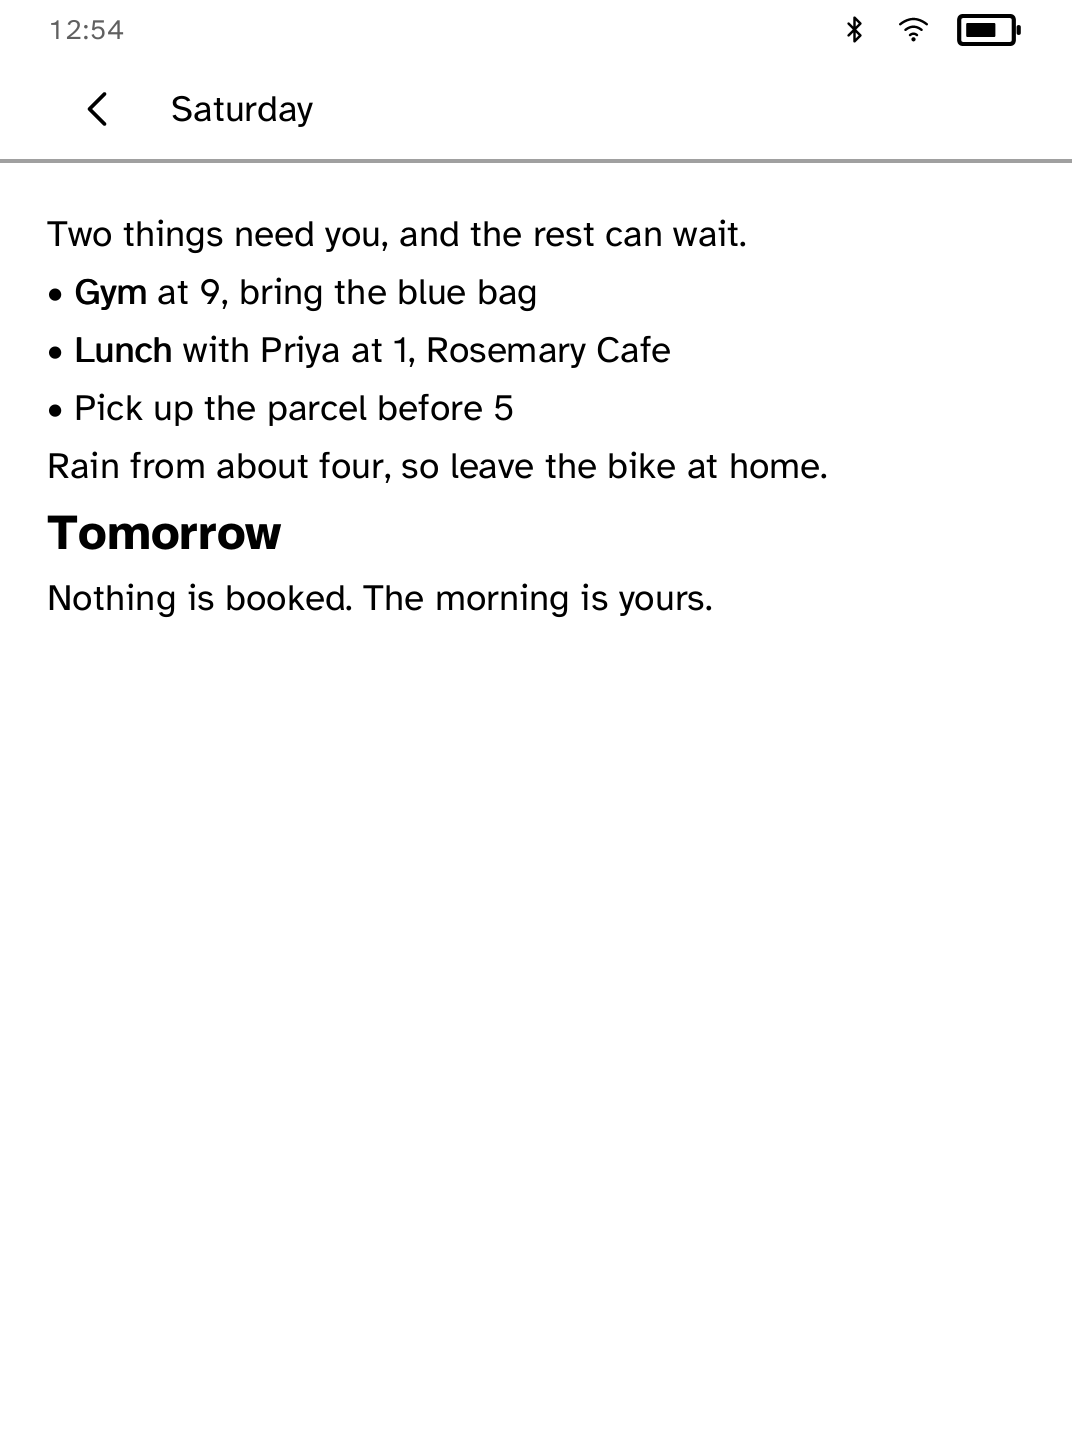
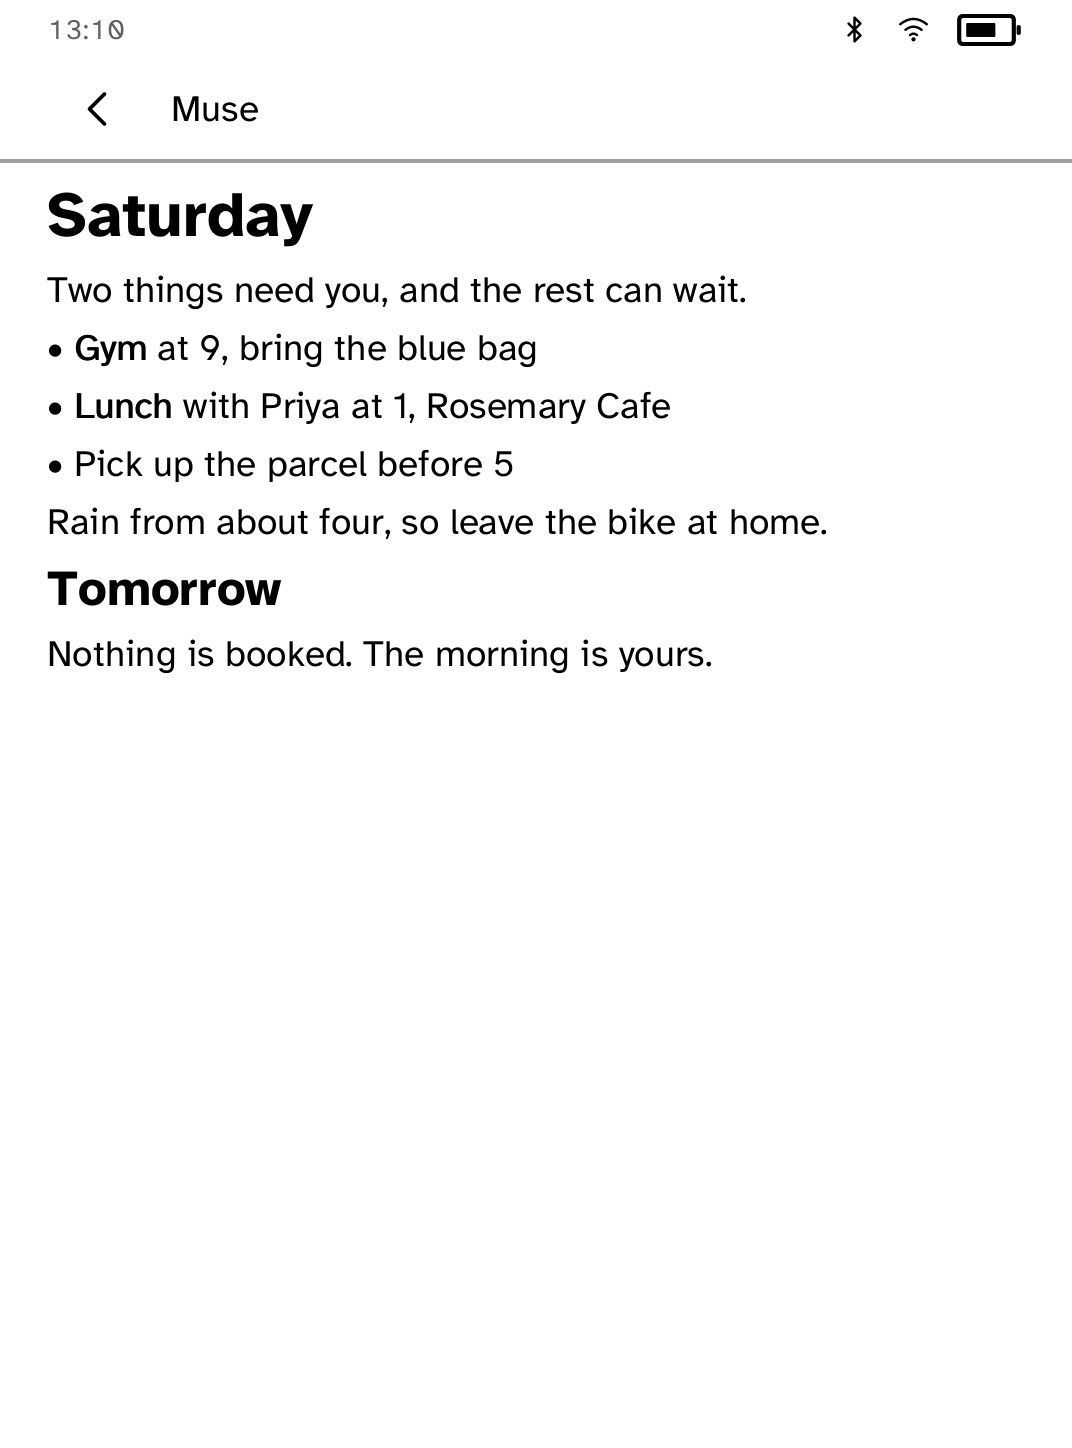
Give Muse pages their title as a heading and prove Back on page and picture

Changed region(s): [[0.0308, 0.1243, 0.7696, 0.4662], [0.1539, 0.0622, 0.3078, 0.0932], [0.0616, 0.0, 0.1231, 0.0311]]

diff --git a/tools/muse-bridge/demo/sim_demo.py b/tools/muse-bridge/demo/sim_demo.py
@@ -206,6 +206,10 @@ async def main(args) -> int:
 
             await invoke("kobo.show_page", {"title": "Saturday", "body": PAGE})
             await drive("wait-for Rain from about four", "wait-idle", "shot page")
+            # Back puts the page away; the resting face returns until Muse sends something new.
+            await drive("tap Back", "wait-for Planning your Saturday", "wait-idle", "shot page-back")
+            await invoke("kobo.show_page", {"title": "Saturday", "body": PAGE + " "})
+            await drive("wait-for Rain from about four", "wait-idle")
 
             await invoke("kobo.ask", {"question": "Move lunch with Priya to 2pm?",
                                       "context": "The Rosemary Cafe table is free at both times.",
@@ -228,6 +232,7 @@ async def main(args) -> int:
 
             await invoke("kobo.draw_url", {"url": f"http://127.0.0.1:{images.server_port}/dawn.png"})
             await drive("wait 6000", "shot picture")
+            await drive("tap-at 536,60", "wait 800", "shot picture-bar", "tap Back", "wait-for Lunch moved to 2pm", "wait 800", "shot picture-back")
             await invoke("kobo.device_info", {})
             print("device_info:", board.hello(), flush=True)
         finally:

diff --git a/apps/muse-panel/src/main.rs b/apps/muse-panel/src/main.rs
@@ -390,8 +390,8 @@ impl Panel {
 
     fn page_screen(&self, title: &str, blocks: &[Block], page: usize, pages: usize) -> Screen {
         let mut screen = ScreenBuilder::new("muse-page")
-            .top_bar(if title.is_empty() { "Note" } else { title })
-            .spacer(Space::Small);
+            .top_bar(TITLE)
+            .heading(if title.is_empty() { "Note" } else { title });
         for block in blocks {
             screen = add_block(screen, block, false);
         }
